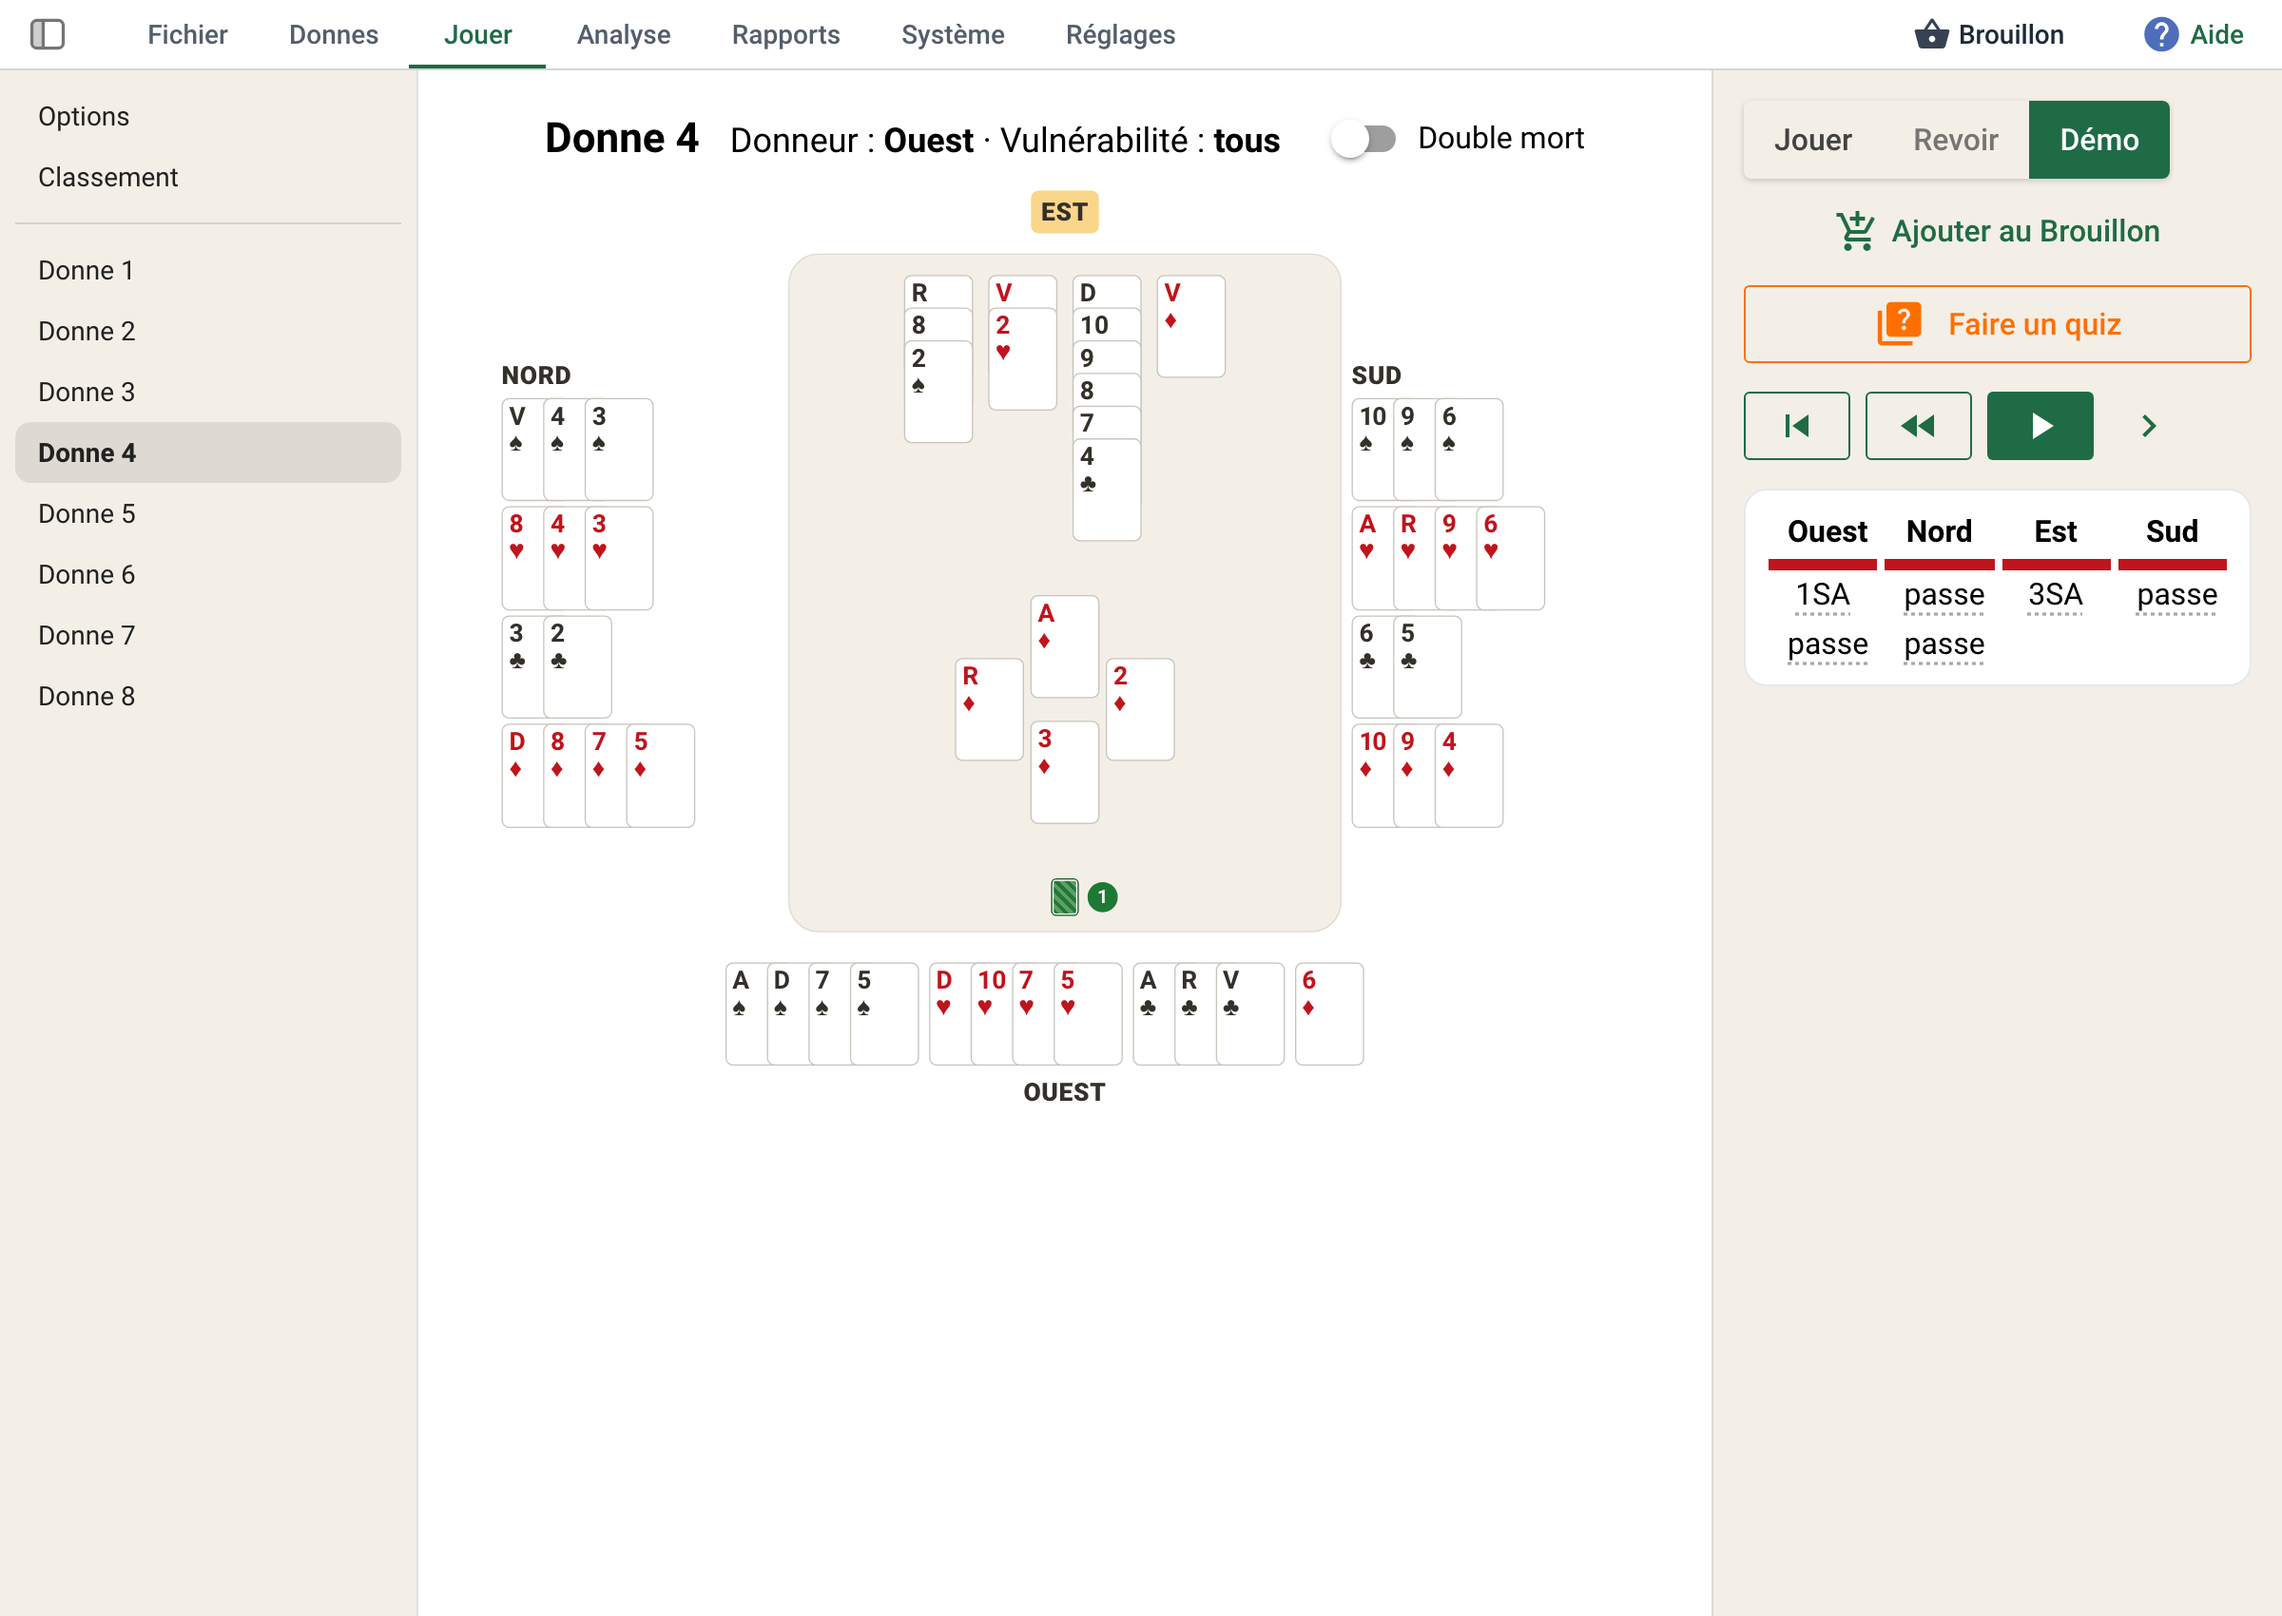
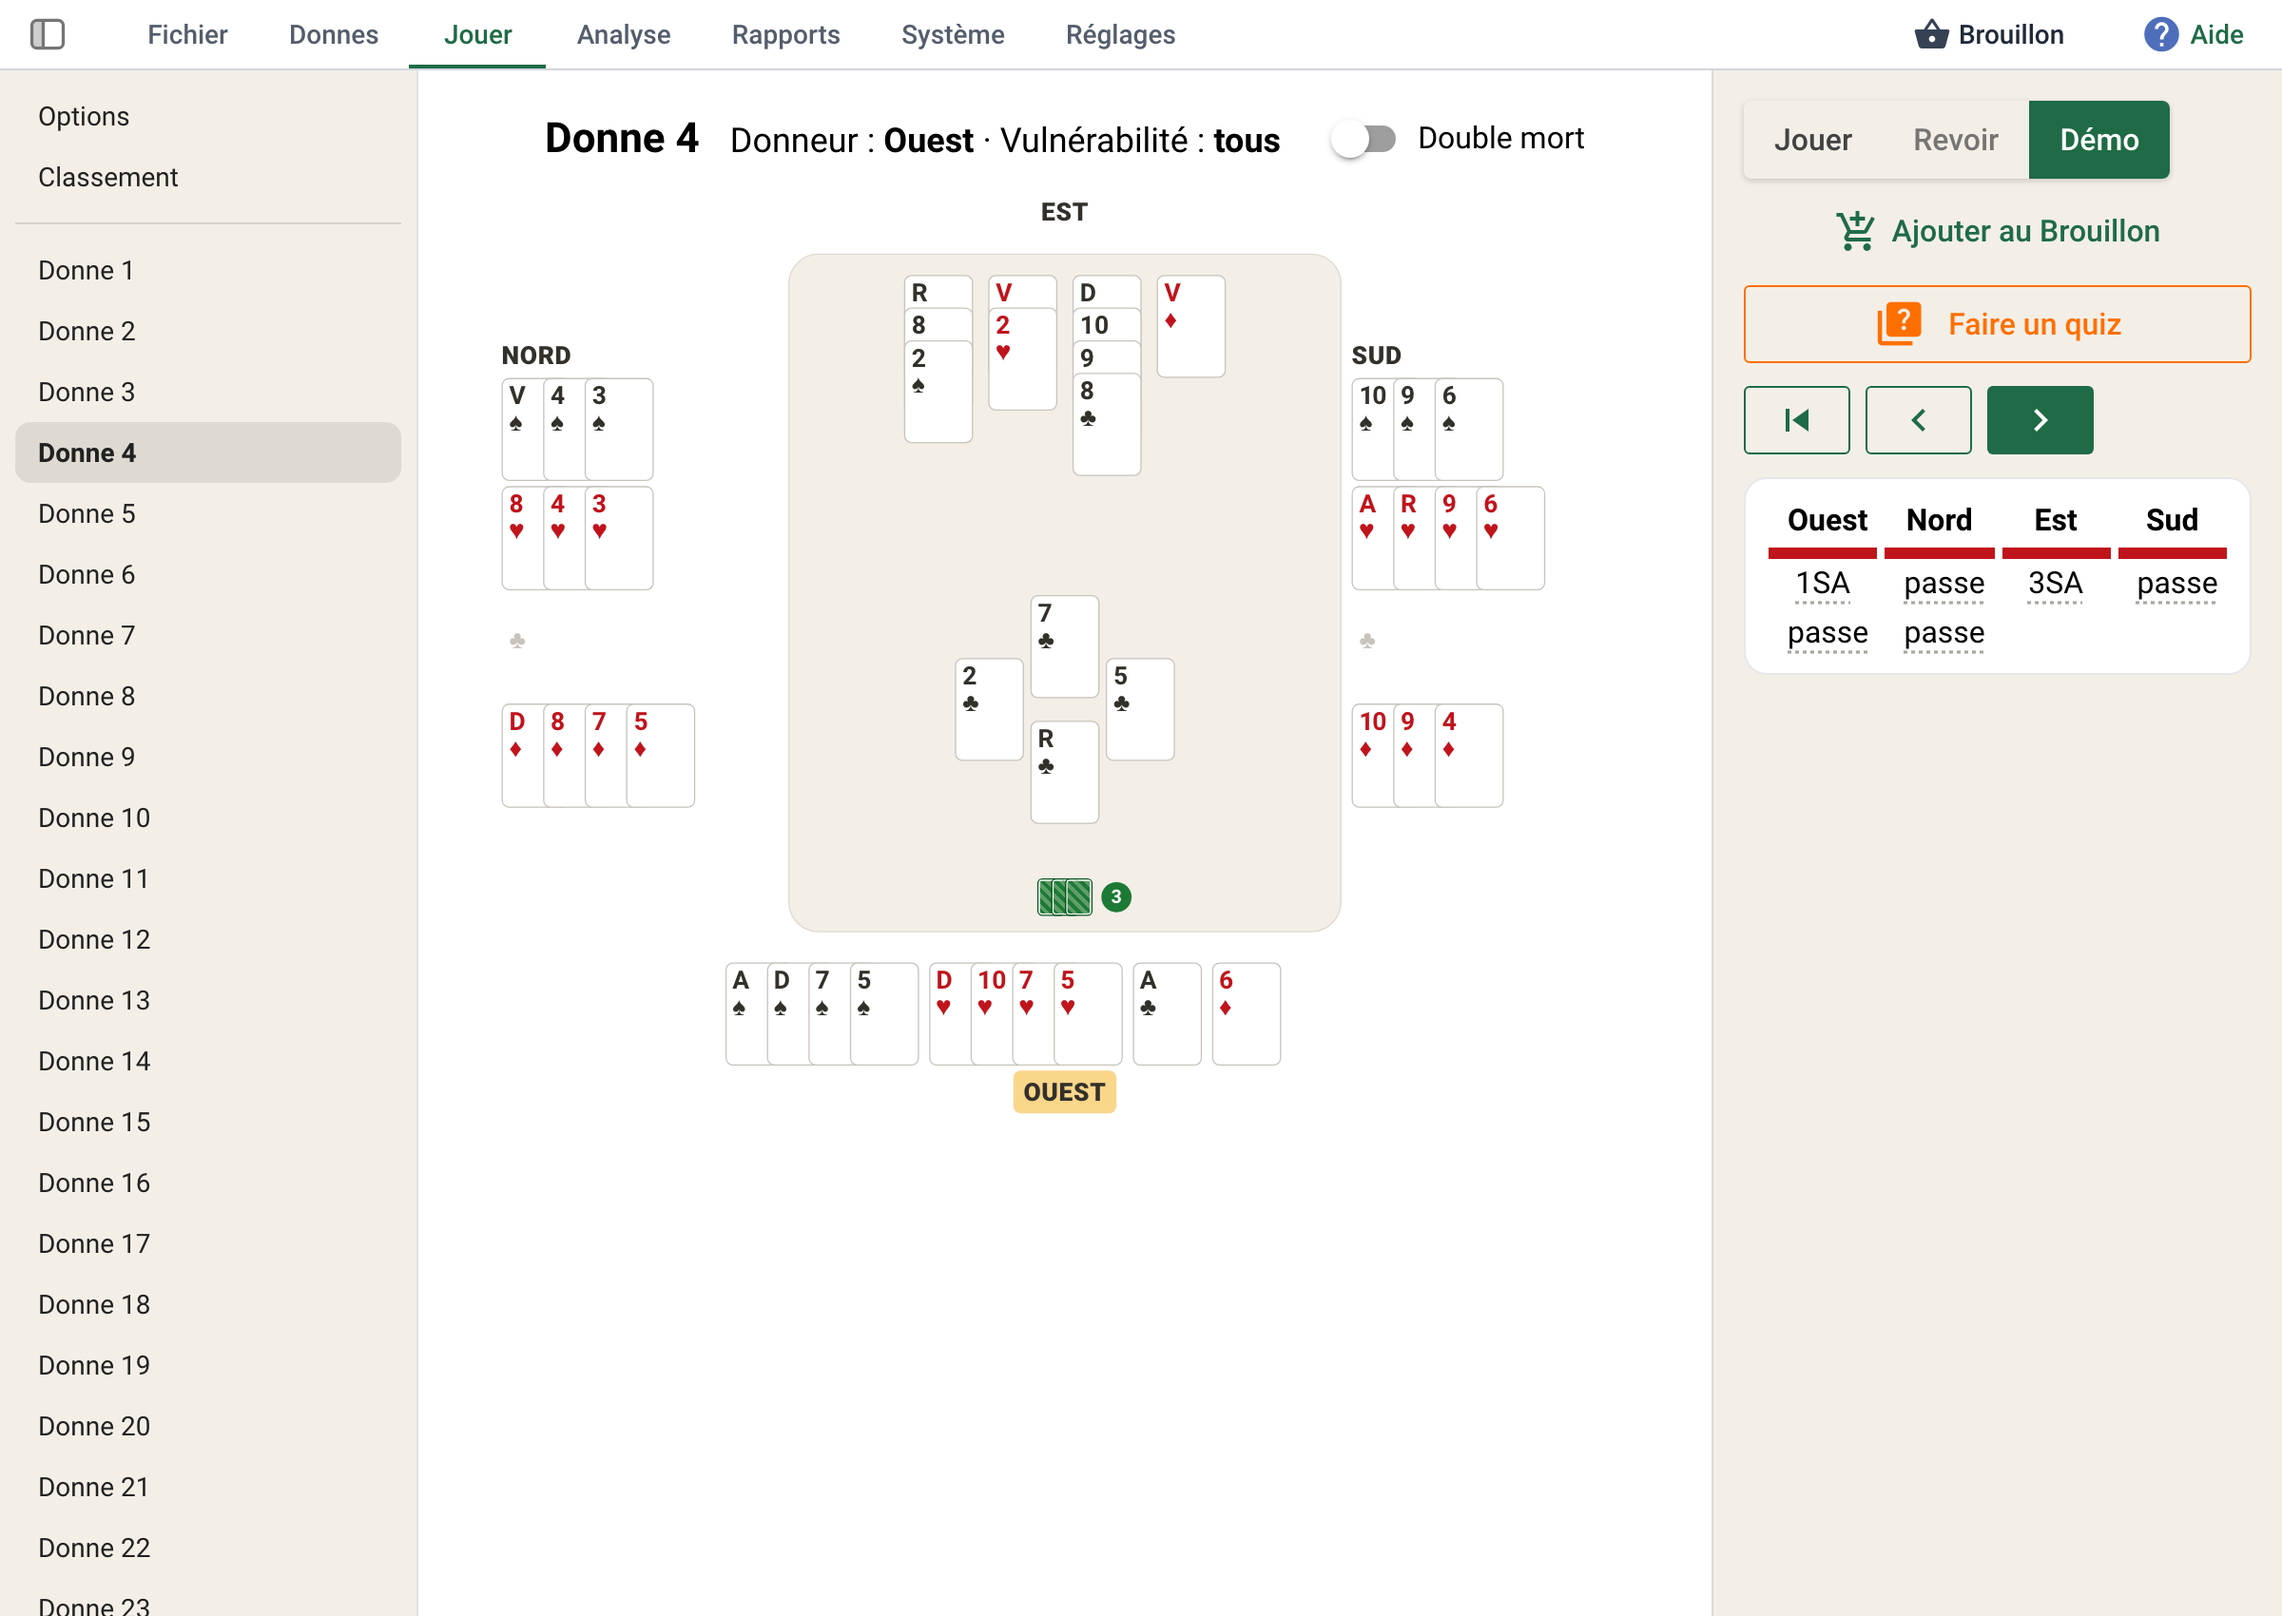
Help brought up to date: the Système tab, the séance list (columns, sorting, search, Brouillon first), Donnes' right panel, Analyse's open results and table auctions, the Séance page's result and ranking, the defence signals as chosen; Jouer and Démo screenshots retaken with the new step buttons

diff --git a/help/index.html b/help/index.html
@@ -60,6 +60,7 @@
   <dt>Jouer</dt><dd>Rejouer une donne contre les robots, la revoir, ou la montrer en classe.</dd>
   <dt>Analyse</dt><dd>Les conseils du coach, donne par donne, et l'avis de l'expert.</dd>
   <dt>Rapports</dt><dd>Les rapports PDF de la séance.</dd>
+  <dt>Système</dt><dd>Le système que jouent les robots (SEF 2024), et votre fiche de conventions.</dd>
   <dt>Réglages</dt><dd>Votre nom, la taille du texte, la sauvegarde, la mise à jour.</dd>
   <dt>Aide</dt><dd>Ces pages.</dd>
 </dl>
@@ -93,7 +94,13 @@
 </ul>
 
 <h3 id="retrouver">Retrouver une séance</h3>
-<p>Onglet <b>Fichier</b>, <b>Ouvrir une séance</b>. Les séances sont rangées par mois, la plus récente en haut. Le mois de la séance ouverte est déplié ; cliquez un autre mois pour voir ses séances, puis cliquez la séance voulue.</p>
+<p>Onglet <b>Fichier</b>, <b>Ouvrir une séance</b> : toutes vos séances dans un tableau, une ligne par séance, avec son <b>Nom</b>, sa <b>Date</b>, son <b>Type</b> (tournoi, entraînement…), le nombre de <b>Donnes</b>, votre <b>Partenaire</b> et votre <b>Résultat</b>. Cliquez une ligne pour ouvrir la séance.</p>
+<ul>
+  <li>Triées par date, les séances sont groupées par mois (« Novembre 2026 (8) ») ; cliquez un mois pour le replier ou le déplier.</li>
+  <li>Cliquez le titre d'une colonne pour trier par celle-ci ; un second clic inverse l'ordre.</li>
+  <li>La case <b>Chercher une séance</b>, au-dessus, la trouve par un mot du titre, une date (12/11) ou son nom de fichier.</li>
+  <li>Le <b>Brouillon</b> est toujours en première ligne ; la <b>Corbeille</b> est repliée tout en bas.</li>
+</ul>
 <figure><img src="images/ouvrir.png" alt="Fichier, Ouvrir une séance"></figure>
 <p>Le titre de la séance ouverte s'affiche en haut de la fenêtre.</p>
 
@@ -134,7 +141,7 @@
 <p class="intro">L'onglet <b>Donnes</b> montre le tournoi tel qu'il a été joué : les mains, les enchères et le résultat de chaque table, et votre place.</p>
 
 <h3 id="donne">Voir une donne et ses résultats</h3>
-<p>Cliquez une donne dans la liste de gauche. Vous voyez les quatre mains, le donneur et la vulnérabilité, puis le résultat de chaque table, avec ses enchères quand les Bridgemate les ont enregistrées. À droite, le double mort et le par.</p>
+<p>Cliquez une donne dans la liste de gauche. Vous voyez les quatre mains, le donneur et la vulnérabilité, puis le résultat de chaque table, avec ses enchères quand les Bridgemate les ont enregistrées. À droite, l'étui de la donne et le par ; le double mort complet est dans l'onglet <b>Analyse</b>.</p>
 <figure><img src="images/donne.png" alt="Onglet Donnes : une donne et les résultats des tables"></figure>
 <p>Les tables sont rangées du meilleur résultat au moins bon, vu de votre camp. Une ligne verte pâle montre le <b>contrat recommandé</b>, à la place qu'il aurait prise parmi les tables.</p>
 
@@ -144,7 +151,8 @@
 <p>Pour regarder la séance avec les yeux d'un autre joueur, changez <b>Vous êtes</b> dans l'onglet <b>Rapports</b>.</p>
 
 <h3 id="parcours">Votre parcours dans la soirée</h3>
-<p>Quand Bridgemate a enregistré le mouvement (un Mitchell, par exemple, avec une table relais), la page <b>Séance</b>, en haut de la liste de gauche, montre votre parcours : pour chaque tour, la table, les donnes, vos adversaires et votre pourcentage.</p>
+<p>La page <b>Séance</b>, en haut de la liste de gauche de l'onglet <b>Donnes</b>, résume votre soirée : votre résultat (« Vous avec … : 45,8 %, 3e sur 4 paires Nord-Sud »), le classement des paires dans chaque sens, la vôtre en jaune, et la marque.</p>
+<p>Quand Bridgemate a enregistré le mouvement (un Mitchell, par exemple, avec une table relais), elle montre aussi votre parcours : pour chaque tour, la table, les donnes, vos adversaires et votre pourcentage.</p>
 
 <h3 id="marque">Match-points ou IMP</h3>
 <p>La <b>marque</b> vient du fichier importé. Si elle est fausse, changez-la sur la page <b>Séance</b> : les rapports et les analyses la suivent.</p>
@@ -163,7 +171,8 @@
 <p>Cliquez une donne à gauche. Elle se lit de haut en bas, comme sa page du rapport :</p>
 <figure><img src="images/analyse.png" alt="Onglet Analyse : une donne"></figure>
 <ul>
-  <li><b>Résultats à la table</b> : votre rang et le contrat recommandé (cliquez pour déplier toutes les tables) ;</li>
+  <li><b>Résultats à la table</b> : toutes les tables, votre rang en tête et le contrat recommandé à sa place ;</li>
+  <li><b>Enchères aux tables</b> : les enchères de chaque table, quand les Bridgemate les ont enregistrées ; les tables qui ont enchéri de la même façon sont réunies (« Tables 1, 2, 3 ») ;</li>
   <li><b>Enchères recommandées</b>, avec le sens de chaque enchère ;</li>
   <li><b>Plan de jeu</b>, puis <b>Entame et défense</b> : le conseil du coach, sous sa casquette, et l'avis de l'expert sur fond vert quand il y en a un ;</li>
   <li><b>Commentaire</b> sur les contrats joués, puis <b>Cartes vues</b> : ce que donnait la donne, une fois toutes les mains connues.</li>
@@ -243,7 +252,13 @@
 <p>À la fin, la barre de droite compare votre contrat à celui que recommande l'analyse, et votre jeu de la carte au meilleur jeu possible. <b>Voir pourquoi</b> vous montre la carte qui a coûté une levée ; <b>Donne suivante</b> continue.</p>
 
 <h3 id="defendre">Défendre</h3>
-<p>Quand l'autre camp gagne les enchères, vous défendez avec un robot pour partenaire. Si c'est à vous d'entamer, choisissez votre carte. Le mort s'étale sur le côté. Votre partenaire signale comme le prévoit le système : sur votre entame, parité en continuation, préférence en défausse.</p>
+<p>Quand l'autre camp gagne les enchères, vous défendez avec un robot pour partenaire. Si c'est à vous d'entamer, choisissez votre carte. Le mort s'étale sur le côté. Votre partenaire signale comme le prévoit le système (<b>Système</b>, <b>Entames et signaux</b>) :</p>
+<ul>
+  <li><b>Sur votre entame</b>, sa première carte : <b>impaire</b>, il demande de continuer ; <b>paire</b>, il demande de changer, haute (7 ou plus) pour la plus chère des deux autres couleurs, basse pour la moins chère.</li>
+  <li><b>En défausse</b> : la préférence. Il défausse dans une couleur qu'il ne veut pas ; haute pour la plus chère des deux autres, basse pour la moins chère.</li>
+  <li><b>Quand le déclarant joue une couleur</b> : la parité, grosse puis petite avec un nombre pair de cartes.</li>
+  <li>Jamais à l'atout. Il signale seulement entre des cartes qui se valent : un signal ne coûte jamais de levée.</li>
+</ul>
 
 <h3 id="revoir">Revoir une donne jouée</h3>
 <p>Une fois la donne finie, <b>Revoir</b> (en haut à droite, à côté de <b>Jouer</b>) rejoue votre partie carte par carte, les quatre mains visibles, avec ce que pensait chaque robot : pourquoi il a choisi sa carte, et ce qu'il croyait des mains cachées. À la dernière carte, le résumé de la donne. <b>›</b> avance d'une carte (ou la flèche <b>→</b>, ou un clic sur le tapis), <b>‹</b> recule, <b>⏮</b> revient au début ; Maj + <b>→</b> joue tout le pli.</p>

diff --git a/src/captures_aide.py b/src/captures_aide.py
@@ -141,13 +141,14 @@ async def c_jouer(c, demo):
     await ouvrir(c, demo, {"onglet": "Jouer", "entree": "d2"}, seance=seance_demo(demo), mode_jouer="jouer",
                  place_jouer="declarant", liste_cachee=False, attente=4)
     await capture(c, "jouer-depart")
-    await cliquer(c, "play_arrow", attente=9)              # ▶ : les robots enchérissent jusqu'à vous
+    await cliquer(c, "Commencer les enchères", attente=9)  # les robots enchérissent jusqu'à vous (plus de ▶ seul, 2026-11-18)
     await capture(c, "jouer-encheres")
 
 
 async def c_demo(c, demo):
     await ouvrir(c, demo, {"onglet": "Jouer", "entree": "d4"}, seance=seance_demo(demo), mode_jouer="demo", attente=4)
-    for _ in range(9):                                     # les enchères, l'entame et quelques cartes
+    await asyncio.sleep(40)                                # les robots calculent la donne d'avance (app.demo_fond)
+    for _ in range(18):                                    # → : un pas (une enchère, une carte) : les enchères et un pli et demi
         await c.js("document.dispatchEvent(new KeyboardEvent('keydown', {key: 'ArrowRight', bubbles: true}))")
         await asyncio.sleep(1.2)
     await capture(c, "demo")
